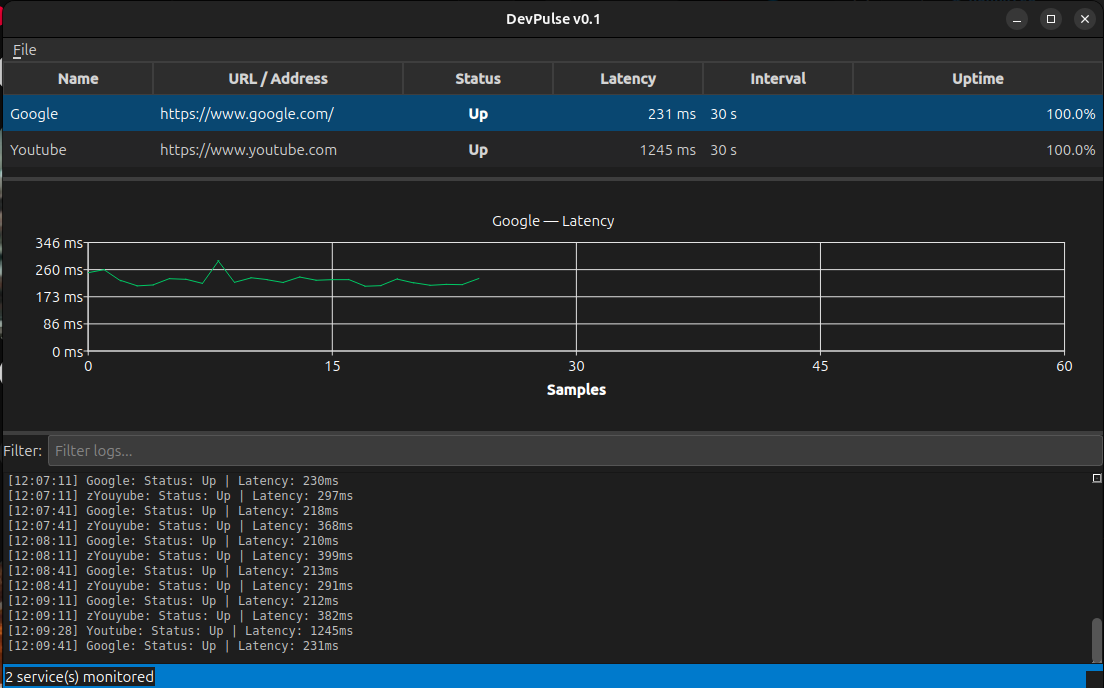
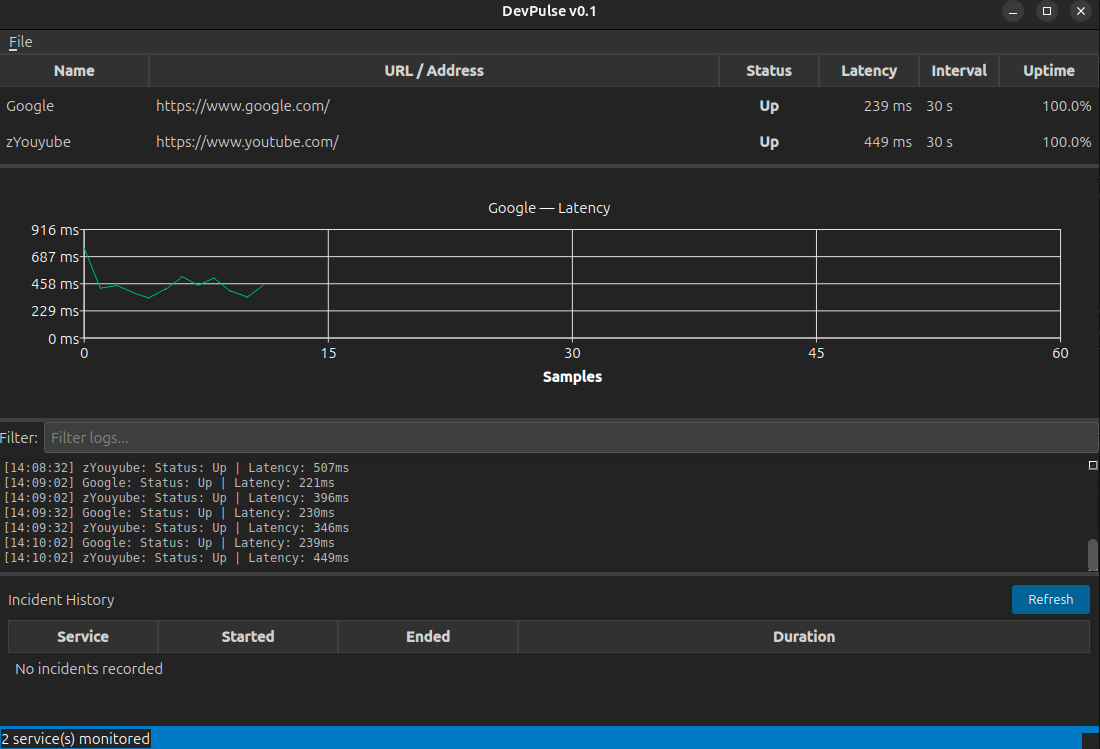
docs: update README with all advanced features

diff --git a/README.md b/README.md
@@ -9,84 +9,114 @@ Monitor your local HTTP APIs, databases, and background workers from a single da
 
 ## Features
 
-### Core
+### Core Monitoring
 - Add and monitor HTTP and TCP services (localhost:3000, localhost:5432 etc)
 - Async health checks — never blocks the UI thread
 - Three service states — **Up**, **Degraded** (slow), **Down**
-- Configurable check interval and timeout per service
+- Configurable check interval, timeout, and degraded threshold per service
 - Response time measurement in milliseconds
 
 ### Visualisation
-- Live latency graph per service (QChart / QLineSeries)
+- Live latency graph per service (QChart / QLineSeries) with auto-scaling Y axis
 - Color-coded status — teal for Up, orange for Degraded, red for Down
 - Uptime percentage tracker with rolling window calculation
-- Per-service timestamped log panel with filter
+- Per-service timestamped log panel with live filter
 
 ### Alerts
 - Desktop notification on service Down and Recovery
-- System tray icon showing overall health
+- System tray icon showing overall health indicator
 - Tray right-click menu — show/hide/quit
+- Webhook alerts — POST to Slack, Discord, or any custom endpoint on state change
 
-### Profiles
-- Save service configs as JSON profiles
-- Load profiles to restore full monitoring setup
-- Auto-reload last profile on startup
+### Persistence
+- SQLite database storing full check history across restarts
+- Incident timeline — every outage with start time, end time, and duration
+- Save/load service configs as JSON profiles
+- Auto-reload last profile on startup (QSettings)
+
+### Observability
+- Prometheus-compatible `/metrics` endpoint on port 9898
+- Integrates with Grafana/Prometheus stacks out of the box
+- Exposes: `devpulse_service_up`, `devpulse_latency_ms`, `devpulse_uptime_percent`
+
+### Plugin System
+- Load custom protocol checkers as `.so` shared libraries at runtime
+- No recompilation needed — drop a plugin into the plugins folder
+- `ICheckerPlugin` interface for implementing custom checkers (gRPC, Redis, WebSocket etc)
 
 ### Utility
 - Right-click context menu — Check Now, Copy URL, Remove
 - Export logs to text file
-- Dark theme UI
+- Dark theme UI (Qt Style Sheets)
+- Manual "Check Now" trigger per service
 
 ## Architecture
 
 ```
-src/
-├── core/                    # Pure backend — zero Qt widgets
-│   ├── Service.h            # Domain model (Q_GADGET, enum class)
-│   ├── ServiceRepository    # In-memory store with Qt signals
-│   ├── MonitorEngine        # Timer-driven check orchestration
-│   ├── checkers/
-│   │   ├── IChecker.h       # Pure abstract interface
-│   │   ├── HttpChecker      # QNetworkAccessManager async HTTP
-│   │   ├── TcpChecker       # QTcpSocket async TCP connect
-│   │   └── CheckerFactory   # Factory pattern — scheme dispatch
-│   ├── monitoring/
-│   │   ├── LatencyStore     # Circular buffer — O(1) insert
-│   │   └── UptimeTracker    # Rolling window uptime calculation
-│   └── storage/
-│       └── JsonProfileManager  # QJsonDocument serialisation
-├── models/                  # Qt MVC — bridge between core and UI
-│   ├── ServiceTableModel    # QAbstractTableModel
-│   └── LogModel             # QAbstractListModel
-└── ui/                      # All QWidget/QMainWindow code
-    ├── MainWindow           # Application shell
-    ├── LatencyGraphWidget   # QChart live graph
-    ├── LogPanelWidget       # Log display with QSortFilterProxyModel
-    ├── TrayManager          # QSystemTrayIcon + notifications
-    └── dialogs/
-        └── AddServiceDialog # Service configuration dialog
+devpulse/
+├── src/
+│   ├── core/                    # Pure backend — zero Qt widgets
+│   │   ├── Service.h            # Domain model (Q_GADGET, enum class)
+│   │   ├── ServiceRepository    # In-memory store with Qt signals
+│   │   ├── MonitorEngine        # Timer-driven check orchestration
+│   │   ├── PrometheusServer     # Embedded QTcpServer metrics endpoint
+│   │   ├── WebhookAlerter       # Slack/Discord webhook POST alerts
+│   │   ├── checkers/
+│   │   │   ├── IChecker.h       # Pure abstract interface
+│   │   │   ├── HttpChecker      # QNetworkAccessManager async HTTP
+│   │   │   ├── TcpChecker       # QTcpSocket async TCP connect
+│   │   │   └── CheckerFactory   # Factory pattern — scheme dispatch
+│   │   ├── monitoring/
+│   │   │   ├── LatencyStore     # Circular buffer — O(1) insert
+│   │   │   ├── UptimeTracker    # Rolling window uptime calculation
+│   │   │   └── IncidentTracker  # Outage detection from SQLite history
+│   │   ├── plugins/
+│   │   │   ├── ICheckerPlugin.h # Plugin interface (Q_DECLARE_INTERFACE)
+│   │   │   └── PluginLoader     # QPluginLoader runtime .so loading
+│   │   └── storage/
+│   │       ├── DatabaseManager     # SQLite via Qt SQL module
+│   │       └── JsonProfileManager  # QJsonDocument serialisation
+│   ├── models/                  # Qt MVC — bridge between core and UI
+│   │   ├── ServiceTableModel    # QAbstractTableModel
+│   │   └── LogModel             # QAbstractListModel
+│   └── ui/                      # All QWidget/QMainWindow code
+│       ├── MainWindow           # Application shell
+│       ├── LatencyGraphWidget   # QChart live graph
+│       ├── LogPanelWidget       # Log display with QSortFilterProxyModel
+│       ├── TrayManager          # QSystemTrayIcon + notifications
+│       ├── IncidentPanel        # Outage timeline table
+│       └── dialogs/
+│           └── AddServiceDialog # Service configuration dialog
+├── plugins/
+│   └── ping_checker/            # Example plugin — demonstrates ICheckerPlugin
+└── tests/                       # Google Test unit tests (38 tests)
 ```
 
 ## Key Design Decisions
 
-**IChecker Interface** — All checkers implement a pure abstract interface.
-The monitoring engine depends only on `IChecker*`, never on concrete implementations.
-Adding a new protocol (gRPC, Redis, WebSocket) requires zero changes to existing code.
+**IChecker Interface + Factory Pattern** — All checkers implement a pure abstract interface.
+`CheckerFactory` centralises dispatch — callers never instantiate concrete types.
+Adding a new protocol requires implementing `IChecker` and registering it in the factory.
+
+**Plugin System** — `QPluginLoader` loads `.so` files at runtime.
+The factory checks plugins first before falling back to built-in checkers.
+Custom protocol support (gRPC, Redis, WebSocket) requires zero changes to the main app.
 
 **QAbstractTableModel** — Service data is fully decoupled from rendering.
-The table view asks the model for data — the model never touches the UI.
+The view asks the model for data — the model never touches the UI.
 Multiple views can observe the same model simultaneously.
 
 **Circular Buffer** — Latency history uses a fixed-size ring buffer.
-O(1) insert, fixed memory footprint regardless of how long the app runs.
+O(1) insert, fixed memory footprint regardless of uptime.
 No allocations after startup.
 
 **Repository Pattern** — `ServiceRepository` is the single source of truth.
-All mutations go through the repository, which emits signals.
-UI components observe signals, never poll.
+All mutations go through the repository, which emits Qt signals.
+UI components observe signals and never poll.
 
-**Factory Pattern** — `CheckerFactory` centralises protocol dispatch.
-URL scheme determines checker type — HTTP/HTTPS → HttpChecker, everything else → TcpChecker.
+**SQLite Persistence** — Every check result is stored via Qt SQL module.
+`IncidentTracker` queries consecutive DOWN records to calculate outage duration.
+Uptime % is queryable over configurable rolling windows.
 
 ## Build
 
@@ -98,6 +128,7 @@ URL scheme determines checker type — HTTP/HTTPS → HttpChecker, everything el
 | CMake | 3.16+ |
 | GCC / Clang | 9+ / 10+ |
 | Ninja | Any |
+| Google Test | 1.14+ |
 
 ### Install Dependencies (Ubuntu/Debian)
 
@@ -106,6 +137,7 @@ sudo apt install \
   qtbase5-dev \
   libqt5charts5-dev \
   libqt5sql5-sqlite \
+  libgtest-dev \
   cmake \
   ninja-build \
   build-essential
@@ -118,7 +150,14 @@ git clone https://github.com/Negi2110/devpulse.git
 cd devpulse
 cmake -B build -G Ninja
 cmake --build build
-./build/devpulse
+./build/Qt_5_15_13_qt5-Debug/devpulse
+```
+
+### Run Tests
+
+```bash
+cd build/Qt_5_15_13_qt5-Debug
+ctest --output-on-failure
 ```
 
 ## Usage
@@ -141,14 +180,32 @@ Name:               Postgres
 URL / Address:      localhost:5432
 ```
 
-### Saving a Profile
+### Prometheus Metrics
+
+```bash
+curl http://localhost:9898/metrics
+```
 
 ```
-File → Save Profile  (Ctrl+S)
+# HELP devpulse_service_up 1 if service is up, 0 if down
+devpulse_service_up{service="Auth API"} 1
+devpulse_latency_ms{service="Auth API"} 234
+devpulse_uptime_percent{service="Auth API"} 99.50
 ```
 
-Saves all services and their config to a `.json` file.
-The profile is auto-reloaded on next launch.
+### Webhook Alerts
+
+```
+File → Configure Webhook
+```
+
+Paste a Slack, Discord, or webhook.site URL.
+DevPulse will POST when any service goes Down or recovers.
+
+### Custom Plugins
+
+Drop a compiled `.so` implementing `ICheckerPlugin` into `plugins/bin/`.
+DevPulse loads it on next startup — no recompilation needed.
 
 ### Right-Click Menu
 
@@ -160,50 +217,25 @@ Right-click any service row:
 ## Tech Stack
 
 | Component | Technology |
-|-----------|-----------|
+|-----------|------------|
 | UI Framework | Qt5 Widgets |
 | Charts | Qt5 Charts (QChart, QLineSeries) |
 | HTTP Checks | Qt5 Network (QNetworkAccessManager) |
 | TCP Checks | Qt5 Network (QTcpSocket) |
+| Metrics Server | Qt5 Network (QTcpServer) |
+| Database | SQLite via Qt5 SQL |
 | Build System | CMake 3.16+ with Ninja |
 | JSON | Qt5 JSON (QJsonDocument) |
 | Config | QSettings |
 | Notifications | QSystemTrayIcon |
+| Plugins | QPluginLoader |
+| Testing | Google Test 1.14 / CTest |
+| CI | GitHub Actions |
 | Language | C++17 |
 
-## Project Structure
+## CI Status
 
-```
-devpulse/
-├── CMakeLists.txt
-├── README.md
-└── src/
-    ├── main.cpp
-    ├── core/
-    │   ├── Service.h
-    │   ├── ServiceRepository.h / .cpp
-    │   ├── MonitorEngine.h / .cpp
-    │   ├── checkers/
-    │   │   ├── IChecker.h
-    │   │   ├── HttpChecker.h / .cpp
-    │   │   ├── TcpChecker.h / .cpp
-    │   │   └── CheckerFactory.h / .cpp
-    │   ├── monitoring/
-    │   │   ├── LatencyStore.h / .cpp
-    │   │   └── UptimeTracker.h / .cpp
-    │   └── storage/
-    │       └── JsonProfileManager.h / .cpp
-    ├── models/
-    │   ├── ServiceTableModel.h / .cpp
-    │   └── LogModel.h / .cpp
-    └── ui/
-        ├── MainWindow.h / .cpp
-        ├── LatencyGraphWidget.h / .cpp
-        ├── LogPanelWidget.h / .cpp
-        ├── TrayManager.h / .cpp
-        └── dialogs/
-            └── AddServiceDialog.h / .cpp
-```
+![CI](https://github.com/Negi2110/devpulse/actions/workflows/ci.yml/badge.svg)
 
 ## Author
 